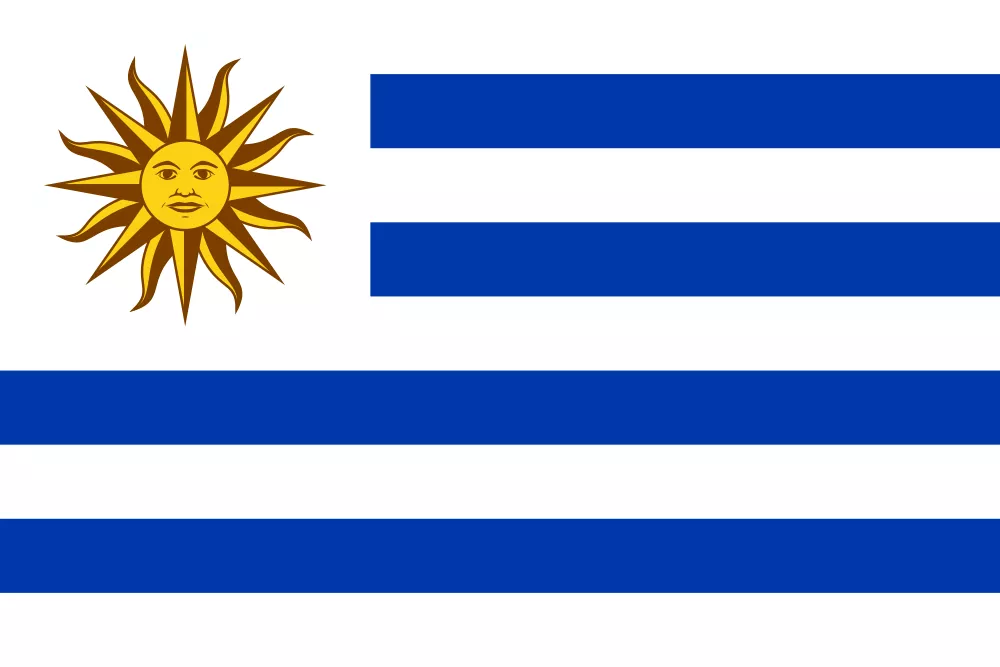
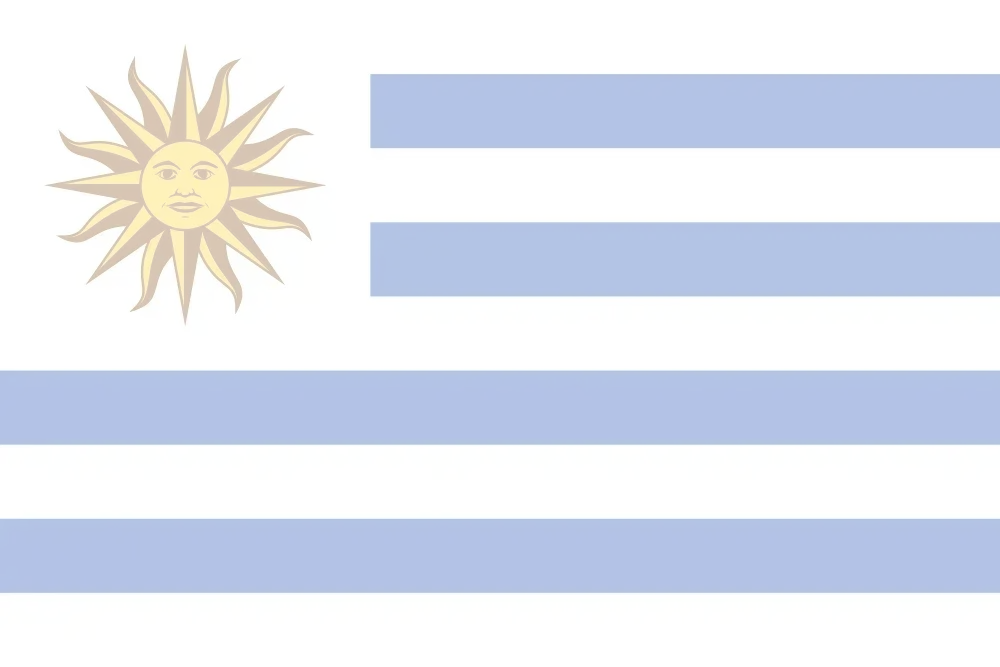
Replace flag images with more opaque images, edit css button styling for better readability

diff --git a/index.html b/index.html
@@ -50,18 +50,18 @@
         </div>
 
         <div class="country-buttons">
-            <button class="answer-btn" id="btn--argentina" data-number="1">Argentina</button>
-            <button class="answer-btn" id="btn--bolivia" data-number="2">Bolivia</button>
-            <button class="answer-btn" id="btn--brazil" data-number="3">Brazil</button>
-            <button class="answer-btn" id="btn--chile" data-number="4">Chile</button>
-            <button class="answer-btn" id="btn--colombia" data-number="5">Colombia</button>
-            <button class="answer-btn" id="btn--ecuador" data-number="6">Ecuador</button>
-            <button class="answer-btn" id="btn--guyana" data-number="7">Guyana</button>
-            <button class="answer-btn" id="btn--paraguay" data-number="8">Paraguay</button>
-            <button class="answer-btn" id="btn--peru" data-number="9">Peru</button>
-            <button class="answer-btn" id="btn--suriname" data-number="10">Suriname</button>
-            <button class="answer-btn" id="btn--uruguay" data-number="11">Uruguay</button>
-            <button class="answer-btn" id="btn--venezuela" data-number="12">Venezuela</button>
+            <button class="answer-btn" id="btn--argentina" data-number="1"></button>
+            <button class="answer-btn" id="btn--bolivia" data-number="2"></button>
+            <button class="answer-btn" id="btn--brazil" data-number="3"></button>
+            <button class="answer-btn" id="btn--chile" data-number="4"></button>
+            <button class="answer-btn" id="btn--colombia" data-number="5"></button>
+            <button class="answer-btn" id="btn--ecuador" data-number="6"></button>
+            <button class="answer-btn" id="btn--guyana" data-number="7"></button>
+            <button class="answer-btn" id="btn--paraguay" data-number="8"></button>
+            <button class="answer-btn" id="btn--peru" data-number="9"></button>
+            <button class="answer-btn" id="btn--suriname" data-number="10"></button>
+            <button class="answer-btn" id="btn--uruguay" data-number="11"></button>
+            <button class="answer-btn" id="btn--venezuela" data-number="12"></button>
         </div>
         <div class="next-container">
             <button id="restart-btn"></button>

diff --git a/assets/css/style.css b/assets/css/style.css
@@ -122,23 +122,21 @@ form {
 }
 
 .answer-btn {
-    font-family: 'Rubik Mono One', sans-serif;
-    font-weight: 700;
+    font-family: 'Rubik', sans-serif;
+    font-weight: 400;
     margin: 4px;
     width: 110px;
     height: 70px;
     text-align: center;
-    border: 2px solid black;
+    border: 2px solid white;
     position: relative;
     display: flex;
     align-items: flex-end;
     justify-content: center;
     cursor: pointer;
     text-transform: uppercase;
-    color: white;
-    font-size: 85%;
-    -webkit-text-stroke-width: 1px;
-    -webkit-text-stroke-color: black;
+    color: black;
+    font-size: 110%;
 }
 
 #btn--argentina {
